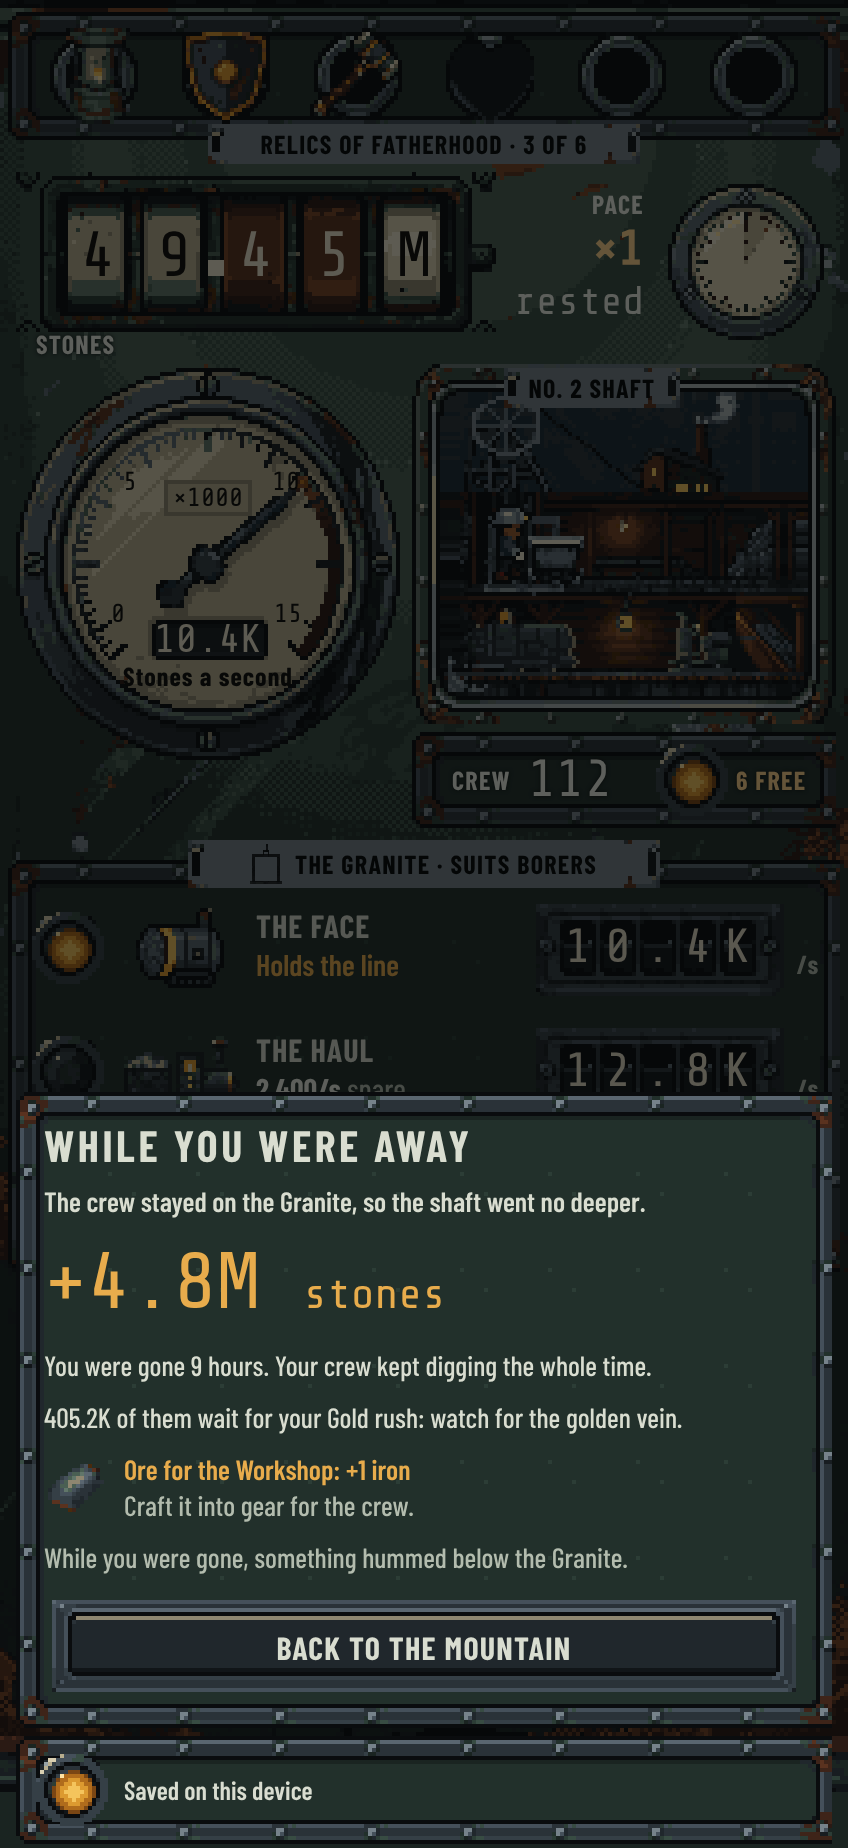
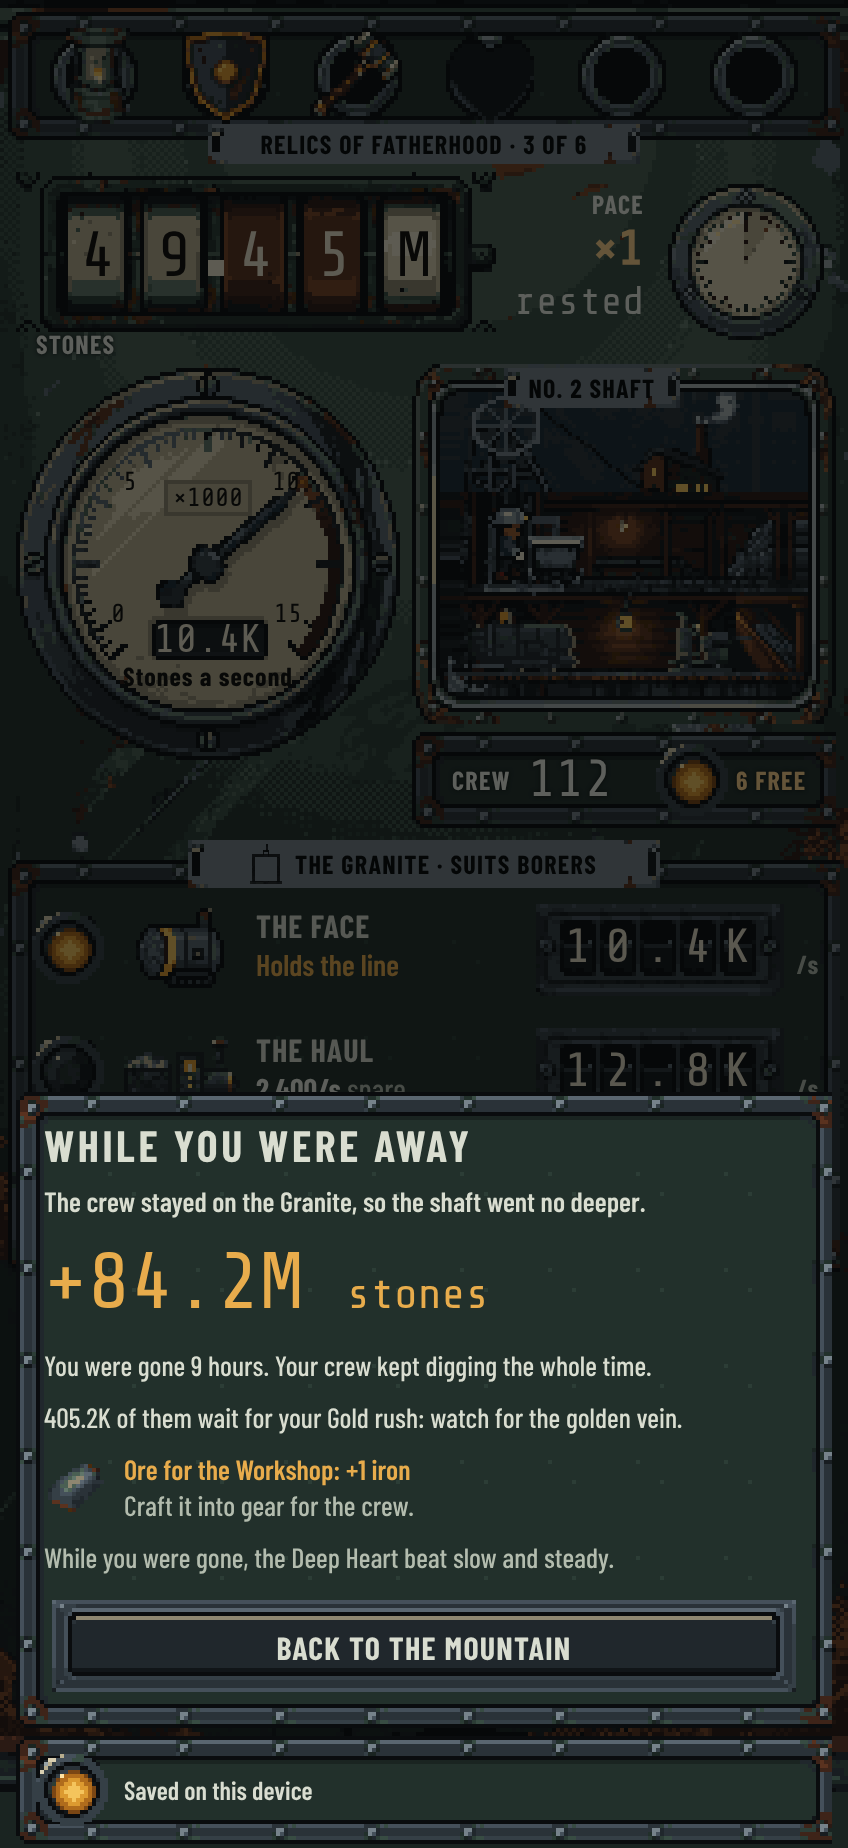
The cage mock's welcome card dreams of the shaft's band, and its haul matches the board
Claude-Session: https://claude.ai/code/session_011RgeWrvsasAtkzHMB56uTR

Changed region(s): [[0.092, 0.6786, 0.5825, 0.7094], [0.3066, 0.8328, 0.7358, 0.8636]]

diff --git a/mockups/cage/cage.ts b/mockups/cage/cage.ts
@@ -98,6 +98,9 @@ const TEACH_LINE =
   "Tap it to send the crew to any level the shaft has reached. Clay is still at the Topsoil.";
 const WELCOME_LINE =
   "The crew stayed on the Granite, so the shaft went no deeper.";
+/** Today's dream line for the Deep Heart, where the shaft is (screen-words#awayCheerWords). */
+const WELCOME_DREAM =
+  "While you were gone, the Deep Heart beat slow and steady.";
 const HOW_STEPS: readonly (readonly [string, string, 32 | 64])[] = [
   [
     cageUrl,
@@ -106,7 +109,7 @@ const HOW_STEPS: readonly (readonly [string, string, 32 | 64])[] = [
   ],
   [
     ironUrl,
-    "Each level brings up its own material, and its rock is hard on one stage.",
+    "Each level brings up its own material. Below the Topsoil, its rock is hard on one stage.",
     32,
   ],
   [
@@ -530,6 +533,10 @@ function addWelcomeLine(root: HTMLElement): void {
   } else {
     gone.after(line);
   }
+  // The dream reads the shaft, not the crew's level: the shaft is in the Deep Heart.
+  need(body, ".welcome-cheer").textContent = WELCOME_DREAM;
+  // Nine hours away at 30% of the parked line's 10.4K/s, as the board behind shows.
+  need(body, ".welcome-mined-count").textContent = "+84.2M";
 }
 
 /** The cage's card is the first under the Ledger's "i"; today's first card moves down. */
